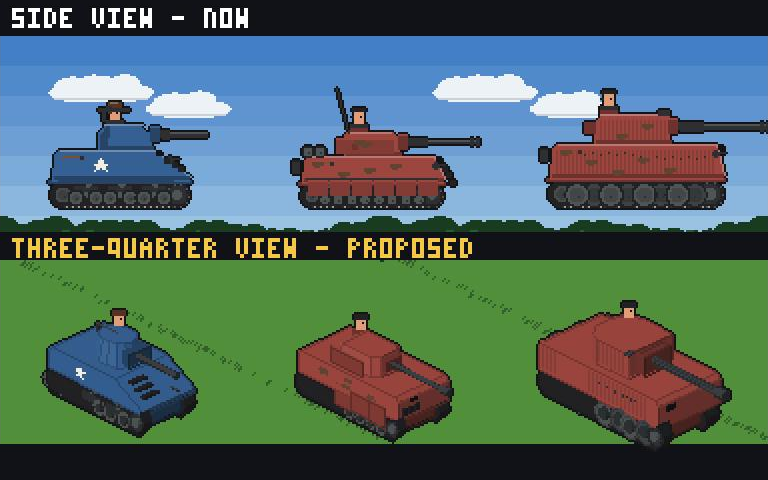
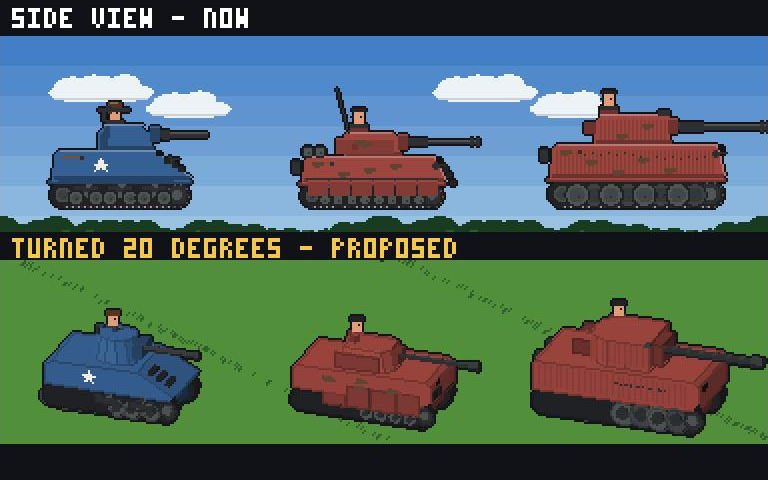
Angled view prototype: turn figures 20 degrees instead of 47

diff --git a/src/game/battle/angled/samples.ts b/src/game/battle/angled/samples.ts
@@ -88,7 +88,7 @@ function comparison(): HTMLCanvasElement {
   p.rect(0, 0, SCENE.width, 16, C("battlePanel"));
   text(ctx, "SIDE VIEW - NOW", 6, 4, 2, C("labelText"));
   p.rect(0, 116, SCENE.width, 14, C("battlePanel"));
-  text(ctx, "THREE-QUARTER VIEW - PROPOSED", 6, 119, 2, C("labelGold"));
+  text(ctx, "TURNED 20 DEGREES - PROPOSED", 6, 119, 2, C("labelGold"));
   stamp(ctx, 60, 104, (q) => tankRig("medium").draw(q, IDLE, US));
   stamp(ctx, 186, 104, (q) => tankRig("medium").draw(q, IDLE, DE));
   stamp(ctx, 318, 104, (q) => tankRig("heavy").draw(q, IDLE, DE));

diff --git a/src/game/battle/angled/mesh.ts b/src/game/battle/angled/mesh.ts
@@ -23,7 +23,7 @@ export interface View {
   readonly pitch: number;
 }
 
-export const THREE_QUARTER: View = { yaw: -0.82, pitch: 0.5 };
+export const THREE_QUARTER: View = { yaw: -0.35, pitch: 0.42 };
 
 // Model axes: x forward (toward the enemy), y to the vehicle's left, z up. Units are scene pixels.
 
